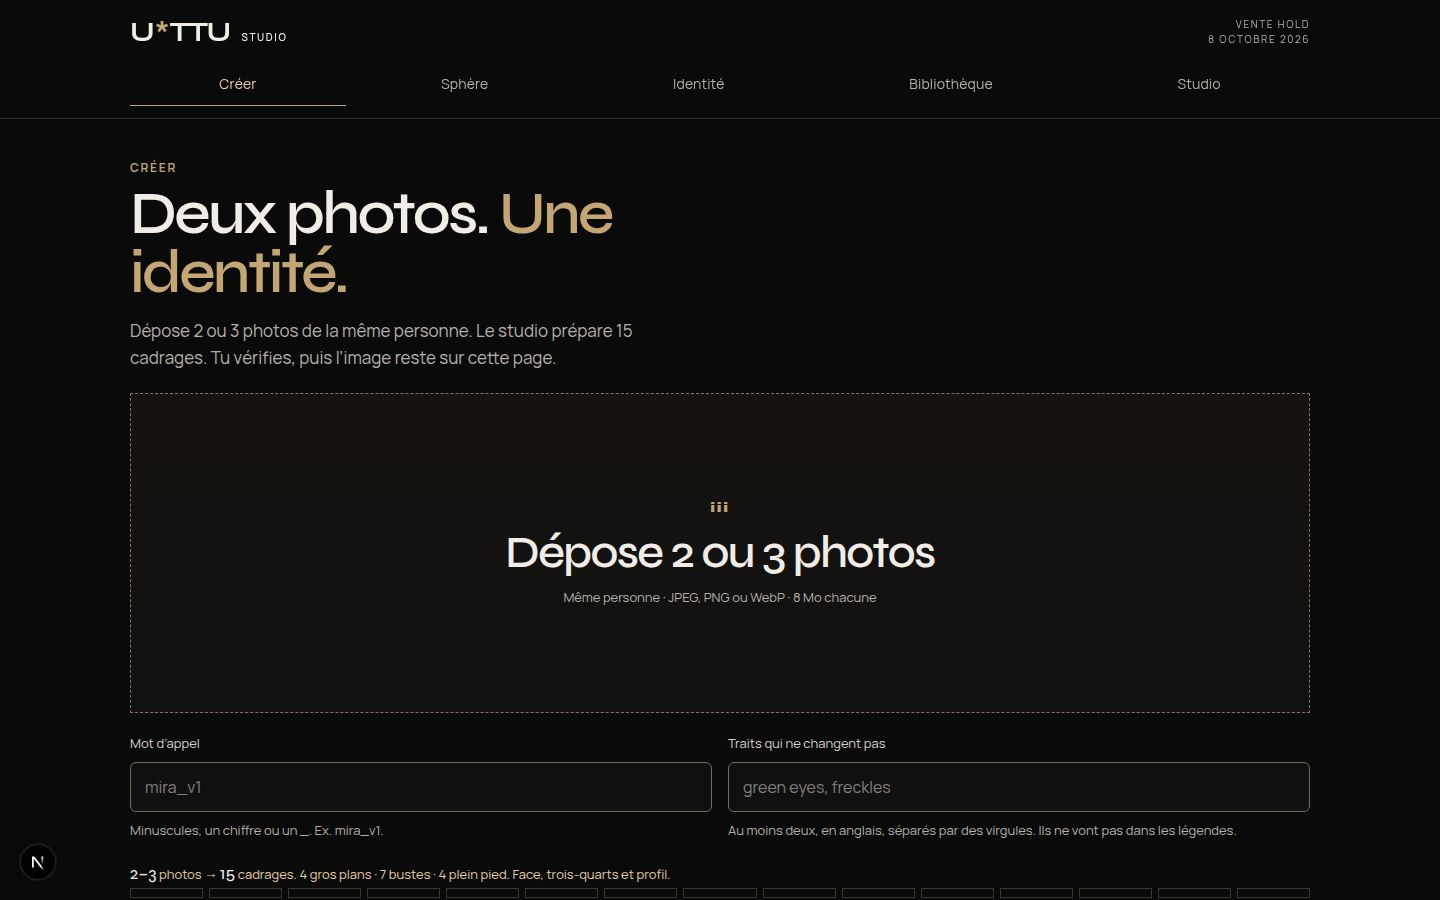
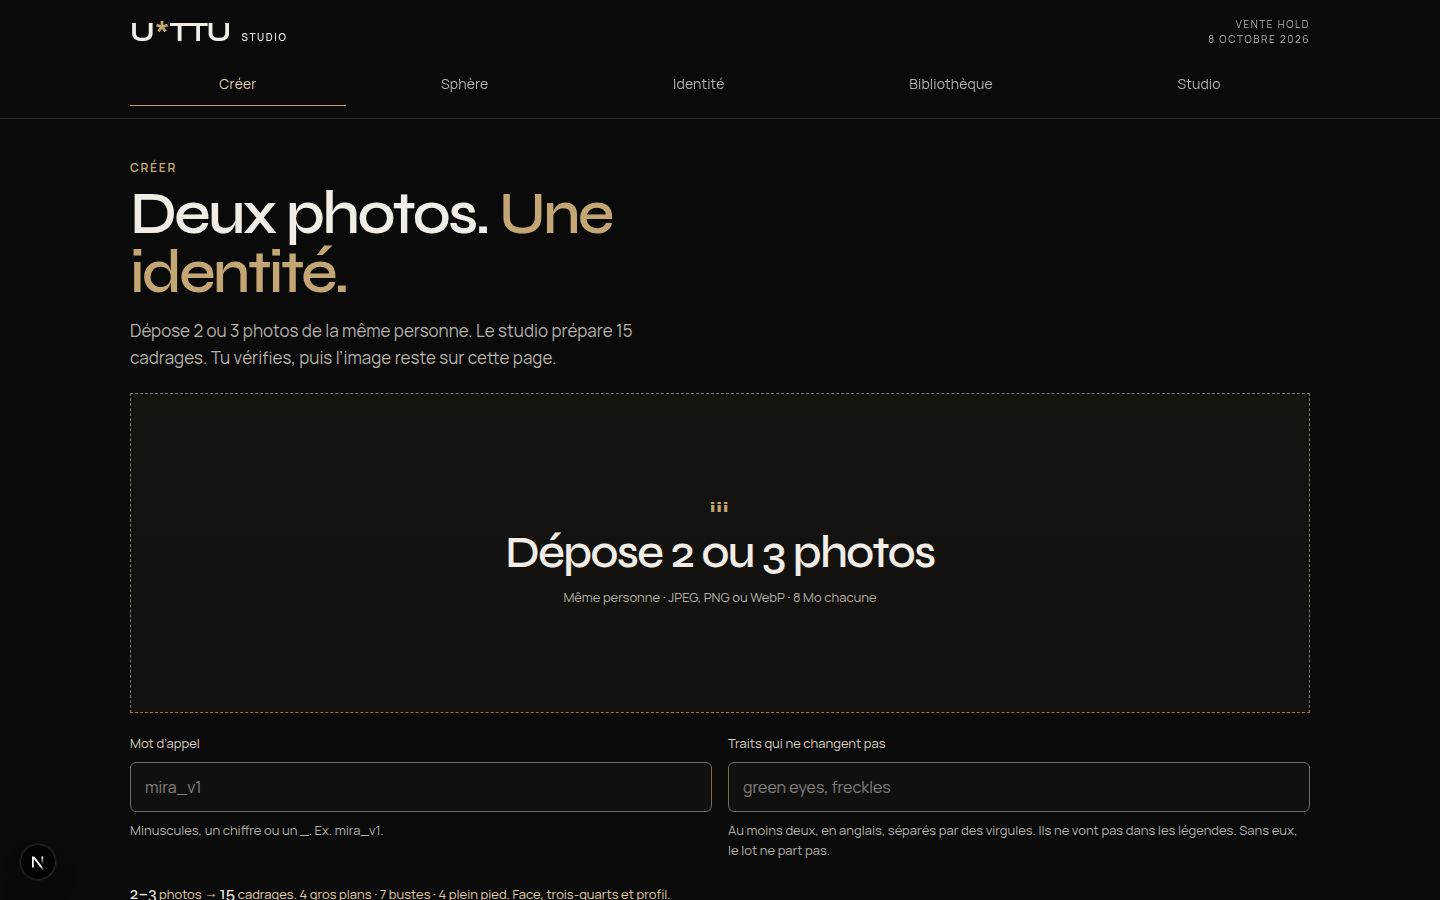
fix(create): refuse a lot that would fail the invariant gate
The prepare launch stays off until the trigger, two or three photos and two constant traits are set. Without a fal proxy, importing an existing set of 15 images is the primary action.

Changed region(s): [[0.0938, 0.9644, 0.9062, 1.0], [0.5, 0.9333, 0.5625, 0.9644], [0.875, 0.9022, 0.9062, 0.9333]]

diff --git a/src/components/studio/create-panel.tsx b/src/components/studio/create-panel.tsx
@@ -5,6 +5,7 @@ import { DATASET_SIZE } from "@/lib/comfy-stack";
 import { bootstrapCaption, bootstrapPlan } from "@/lib/fal-bootstrap";
 import { FAL_ACCESS_MIN, FAL_VARY, estimateFalVary, formatFalCost } from "@/lib/fal-stack";
 import { checkTrigger } from "@/lib/gate/captions";
+import { invariantFieldError, prepareLaunch } from "@/lib/prepare-preflight";
 import { ANGLES, FRAMINGS } from "@/lib/gate/vocabulary";
 import { Arrow } from "../glyph";
 
@@ -32,16 +33,20 @@ export interface CreatePanelProps {
 export function CreatePanel(props: CreatePanelProps) {
   const [dragging, setDragging] = useState(false);
   const triggerError = props.trigger ? checkTrigger(props.trigger) : null;
-  const ready = props.proxyOn
-    && props.refs.length >= FAL_VARY.minRefs
-    && props.refs.length <= FAL_VARY.maxRefs
-    && !triggerError
-    && !!props.trigger
-    && props.token.trim().length >= FAL_ACCESS_MIN
-    && !props.busy;
+  const invariantError = invariantFieldError(props.invariants);
+  const attempt = {
+    proxyOn: props.proxyOn,
+    refCount: props.refs.length,
+    trigger: props.trigger,
+    invariants: props.invariants,
+    token: props.token,
+    busy: props.busy,
+  };
+  const ready = prepareLaunch(attempt).launch;
+  const refsReady = props.refs.length >= FAL_VARY.minRefs && props.refs.length <= FAL_VARY.maxRefs;
+  const shortToken = props.proxyOn && !props.busy && !triggerError && !!props.trigger && refsReady && !invariantError && props.invariants.trim().length > 0 && props.token.trim().length < FAL_ACCESS_MIN;
   const angleLabel = (id: string) => ANGLES.find(item => item.id === id)?.label ?? id;
   const framingLabel = (id: string) => FRAMINGS.find(item => item.id === id)?.label ?? id;
-  const shortToken = props.proxyOn && !!props.trigger && !triggerError && props.refs.length >= FAL_VARY.minRefs && props.token.trim().length < FAL_ACCESS_MIN;
 
   function take(list: File[]) {
     props.onRefs(list);
@@ -76,8 +81,8 @@ export function CreatePanel(props: CreatePanelProps) {
       </div>
       <div className="create-field">
         <label htmlFor="create-invariants">Traits qui ne changent pas</label>
-        <input id="create-invariants" value={props.invariants} onChange={event => props.onInvariants(event.target.value)} placeholder="green eyes, freckles" spellCheck={false} disabled={props.busy} />
-        <p>Au moins deux, en anglais, séparés par des virgules. Ils ne vont pas dans les légendes.</p>
+        <input id="create-invariants" value={props.invariants} onChange={event => props.onInvariants(event.target.value)} placeholder="green eyes, freckles" spellCheck={false} disabled={props.busy} aria-invalid={!!invariantError} aria-describedby="create-invariants-help" />
+        <p id="create-invariants-help" className={invariantError ? "is-error" : ""}>{invariantError ?? "Au moins deux, en anglais, séparés par des virgules. Ils ne vont pas dans les légendes. Sans eux, le lot ne part pas."}</p>
       </div>
       {props.proxyOn && <div className="create-field">
         <label htmlFor="create-token">Code d’accès du studio</label>
@@ -95,16 +100,19 @@ export function CreatePanel(props: CreatePanelProps) {
       </ol>
     </div>
 
-    <div className="create-actions">
-      <button type="button" className="button button-primary" disabled={!ready} aria-busy={props.busy} onClick={props.onBootstrap}>
-        {props.busy ? "Préparation du lot…" : `Préparer les ${DATASET_SIZE} images · ≈ ${formatFalCost(COST)}`} <Arrow />
-      </button>
-      <button type="button" className="button button-outline" disabled={props.busy} onClick={props.onManual}>Importer mes {DATASET_SIZE} images</button>
-    </div>
-    <p className="create-path">Le lot automatique attend le proxy fal. Tes propres {DATASET_SIZE} images s’importent ici, sans réseau, puis passent le gate.</p>
-    {!props.proxyOn && <aside className="offline-fal" role="status">
-      <p><strong>Hors ligne.</strong> Proxy fal absent. Le bouton de lot reste éteint. Aucune photo ne part.</p>
+    {!props.proxyOn && <aside id="prepare-offline" className="offline-fal" role="status">
+      <p><strong>Lot automatique indisponible.</strong> Proxy fal absent. « Préparer les {DATASET_SIZE} images » ne lance rien, et rien n’est facturé.</p>
+      <p>Ici, le chemin est « J’ai déjà {DATASET_SIZE} images ». Le gate reste dans cette page.</p>
     </aside>}
+    <div className={`create-actions${props.proxyOn ? "" : " is-offline"}`}>
+      {!props.proxyOn && <button type="button" className="button button-primary" disabled={props.busy} onClick={props.onManual}>J’ai déjà {DATASET_SIZE} images <Arrow /></button>}
+      <button type="button" className={`button ${props.proxyOn ? "button-primary" : "button-outline"}`} disabled={!ready} aria-busy={props.busy} aria-describedby={props.proxyOn ? undefined : "prepare-offline"} onClick={() => { if (prepareLaunch(attempt).launch) props.onBootstrap(); }}>
+        {props.busy ? "Préparation du lot…" : props.proxyOn ? `Préparer les ${DATASET_SIZE} images · ≈ ${formatFalCost(COST)}` : `Préparer les ${DATASET_SIZE} images`} <Arrow />
+      </button>
+      {props.proxyOn && <button type="button" className="button button-outline" disabled={props.busy} onClick={props.onManual}>J’ai déjà {DATASET_SIZE} images</button>}
+    </div>
+    {props.proxyOn && <p className="create-path">Deux traits constants, un mot d’appel, deux ou trois photos. Tu peux aussi importer tes {DATASET_SIZE} images, sans lancer le lot.</p>}
+    {props.proxyOn && !props.busy && !triggerError && !!props.trigger && refsReady && !props.invariants.trim() && <p className="create-status">Deux traits constants avant l’envoi. Le bouton reste éteint : le gate les exige, et le lot ne part pas sans eux.</p>}
     {props.proxyOn && props.refs.length > 0 && props.refs.length < FAL_VARY.minRefs && <p className="create-status">Encore une photo : il en faut {FAL_VARY.minRefs} ou {FAL_VARY.maxRefs}.</p>}
     {shortToken && !props.busy && <p className="create-status">Le code d’accès du studio débloque le lot. Rien n’est envoyé avant le clic.</p>}
     {props.status && <p className="create-status" role="status">{props.status}</p>}

diff --git a/tests/prepare-preflight.test.ts b/tests/prepare-preflight.test.ts
@@ -1,0 +1,59 @@
+import assert from "node:assert/strict";
+import { describe, it } from "node:test";
+import { FAL_ACCESS_MIN } from "../src/lib/fal-stack.ts";
+import { invariantFieldError, prepareLaunch, runIfPrepareAllowed, type PrepareAttempt } from "../src/lib/prepare-preflight.ts";
+
+const ready: PrepareAttempt = {
+  proxyOn: true,
+  refCount: 2,
+  trigger: "mira_v1",
+  invariants: "green eyes, freckles",
+  token: "x".repeat(FAL_ACCESS_MIN),
+  busy: false,
+};
+
+describe("prepare preflight", () => {
+  it("launches only with a trigger, 2 or 3 photos and at least 2 invariants", () => {
+    assert.deepEqual(prepareLaunch(ready), { launch: true });
+    assert.deepEqual(prepareLaunch({ ...ready, refCount: 3 }), { launch: true });
+    assert.deepEqual(prepareLaunch({ ...ready, invariants: "green eyes, freckles, scar" }), { launch: true });
+  });
+
+  it("does not launch when invariants are missing, duplicated or only one", async () => {
+    for (const invariants of ["", "green eyes", "green eyes, green eyes", "a, b", "eyes"]) {
+      const attempt = { ...ready, invariants };
+      assert.equal(prepareLaunch(attempt).launch, false, invariants || "(vide)");
+      let called = false;
+      const ran = await runIfPrepareAllowed(attempt, async () => { called = true; });
+      assert.equal(ran, null);
+      assert.equal(called, false, invariants || "(vide)");
+    }
+  });
+
+  it("does not launch when the trigger, the photos, the proxy or the code are incomplete", async () => {
+    const attempts: PrepareAttempt[] = [
+      { ...ready, trigger: "" },
+      { ...ready, trigger: "mira" },
+      { ...ready, refCount: 0 },
+      { ...ready, refCount: 1 },
+      { ...ready, refCount: 4 },
+      { ...ready, proxyOn: false },
+      { ...ready, token: "court" },
+      { ...ready, busy: true },
+    ];
+    for (const attempt of attempts) {
+      assert.equal(prepareLaunch(attempt).launch, false);
+      let called = false;
+      assert.equal(await runIfPrepareAllowed(attempt, async () => { called = true; }), null);
+      assert.equal(called, false);
+    }
+  });
+
+  it("names a short invariant list on the field, and stays quiet while it is empty", () => {
+    assert.equal(invariantFieldError(""), null);
+    assert.equal(invariantFieldError("   "), null);
+    assert.match(invariantFieldError("green eyes") ?? "", /Encore un trait/);
+    assert.match(invariantFieldError("a, b") ?? "", /3 lettres/);
+    assert.equal(invariantFieldError("green eyes, freckles"), null);
+  });
+});

diff --git a/src/lib/prepare-preflight.ts b/src/lib/prepare-preflight.ts
@@ -1,0 +1,48 @@
+import { FAL_ACCESS_MIN, FAL_VARY } from "./fal-stack.ts";
+import { checkTrigger, parseInvariants } from "./gate/captions.ts";
+import { GATE } from "./gate/rules.ts";
+
+// Client gate before any fal bootstrap. G02 asks for two invariants; without
+// them a paid lot comes back refused. Incomplete attempts must not launch.
+
+export interface PrepareAttempt {
+  proxyOn: boolean;
+  refCount: number;
+  trigger: string;
+  invariants: string;
+  token: string;
+  busy: boolean;
+}
+
+export type PrepareDecision = { launch: true } | { launch: false; reason: string };
+
+export function invariantFieldError(raw: string): string | null {
+  if (!raw.trim()) return null;
+  const count = parseInvariants(raw).length;
+  if (count >= GATE.minInvariants) return null;
+  if (count === 0) return "Chaque trait fait au moins 3 lettres. Il en faut 2, séparés par une virgule.";
+  return "Encore un trait. Le gate en demande 2 avant tout envoi.";
+}
+
+export function prepareLaunch(attempt: PrepareAttempt): PrepareDecision {
+  if (attempt.busy) return { launch: false, reason: "Une préparation est déjà en cours." };
+  if (!attempt.proxyOn) return { launch: false, reason: "Proxy fal absent. Aucun lot automatique n’est lancé." };
+  const triggerError = checkTrigger(attempt.trigger);
+  if (triggerError) return { launch: false, reason: triggerError };
+  if (attempt.refCount < FAL_VARY.minRefs || attempt.refCount > FAL_VARY.maxRefs) {
+    return { launch: false, reason: `Il faut ${FAL_VARY.minRefs} ou ${FAL_VARY.maxRefs} photos.` };
+  }
+  if (parseInvariants(attempt.invariants).length < GATE.minInvariants) {
+    return { launch: false, reason: `Il faut ${GATE.minInvariants} traits constants avant l’envoi. Le lot ne part pas.` };
+  }
+  if (attempt.token.trim().length < FAL_ACCESS_MIN) {
+    return { launch: false, reason: "Le code d’accès du studio manque. Rien n’est envoyé." };
+  }
+  return { launch: true };
+}
+
+// The fal call is `start`. It is not invoked when the attempt is incomplete.
+export function runIfPrepareAllowed<T>(attempt: PrepareAttempt, start: () => T): T | null {
+  if (!prepareLaunch(attempt).launch) return null;
+  return start();
+}

diff --git a/src/components/studio/create-view.tsx b/src/components/studio/create-view.tsx
@@ -106,7 +106,7 @@ export function CreateView() {
         <details><summary>Qu’est-ce qui est payant ?</summary><p>La page ne facture rien. Préparer le lot, entraîner et générer consomment la clé fal du studio, aux tarifs affichés avant chaque clic. Le repli Comfy, lui, consomme les crédits de ton compte Comfy. L’offre de guidage U*TTU n’est pas en vente (HOLD).</p></details>
         <details><summary>Où vont mes images ?</summary><p>Rien ne part tant que tu ne cliques pas. Au clic sur « Préparer les 15 images » ou « Entraîner chez fal », les photos passent par le proxy du studio, jamais avec une clé dans la page. Le ZIP du gate, lui, reste dans ton navigateur.</p></details>
         <details><summary>Est-ce que je récupère un fichier LoRA ?</summary><p>Oui, sur le rail fal : un fichier .safetensors à télécharger. Le repli Comfy entraîne et produit une image dans le même lancement, sans fichier à emporter.</p></details>
-        <details><summary>Et si je connais déjà les LoRA ?</summary><p>Dépose tes photos, ou ouvre « Importer mes 15 images ». Le tuto est dans « Comment ça marche ». Comfy est dans « Expert / repli ». Identité reprend le gate, les légendes et le ZIP.</p></details>
+        <details><summary>Et si je connais déjà les LoRA ?</summary><p>Ouvre « J’ai déjà 15 images ». Sans proxy fal, c’est le bouton principal. Le tuto est dans « Comment ça marche ». Comfy est dans « Expert / repli ». Identité reprend le gate, les légendes et le ZIP.</p></details>
       </div>
     </section>
   </section>;

diff --git a/src/components/studio/session.tsx b/src/components/studio/session.tsx
@@ -8,6 +8,7 @@ import { trackEvent } from "@/lib/analytics";
 import { captionsBlock } from "@/lib/gate/report";
 import { GATE, canKeep, evaluateGate, type ConfirmationId, type DatasetImage, type GateResult } from "@/lib/gate/rules";
 import type { Angle, Framing } from "@/lib/gate/vocabulary";
+import { prepareLaunch, runIfPrepareAllowed } from "@/lib/prepare-preflight";
 import { falProxyUrl } from "@/lib/site";
 import type { ExportState } from "../guide/train-step";
 
@@ -242,6 +243,23 @@ export function StudioSessionProvider({ children }: { children: ReactNode }) {
   }
 
   async function bootstrap() {
+    const attempt = {
+      proxyOn: !!falProxyUrl,
+      refCount: refFiles.length,
+      trigger: trigger.trim(),
+      invariants,
+      token,
+      busy: boot.phase !== "idle" || bootLock.current,
+    };
+    const ran = runIfPrepareAllowed(attempt, () => launchBootstrap());
+    if (ran) return ran;
+    const decision = prepareLaunch(attempt);
+    if (!decision.launch && boot.phase === "idle" && !bootLock.current) {
+      setBoot({ phase: "idle", done: 0, message: decision.reason });
+    }
+  }
+
+  async function launchBootstrap() {
     if (!falProxyUrl || bootLock.current) return;
     bootLock.current = true;
     const generation = ++bootGeneration.current;

diff --git a/README.md b/README.md
@@ -23,7 +23,7 @@ L’offre A (« Look-Lock » : forfait de direction artistique et ZIP-juge) a é
 La page s’ouvre sur **Créer**, dans un shell à cinq modes : Créer, Sphère, Identité, Bibliothèque, Studio. Le tutoriel est un tiroir (« Comment ça marche »), pas un mur de quatre écrans. Sphère, la bibliothèque et le tableau sont des panneaux de la page. Ils ne lancent ni vidéo, ni compte, ni paiement.
 
 1. **Déposer.** 2 ou 3 photos de la même personne, un mot d’appel, deux traits constants. « J’ai déjà 15 images » reste possible.
-2. **Préparer le lot.** Au clic, le proxy demande 15 variations à `fal-ai/flux-pro/kontext/multi` (cadrages et légendes du gate). Le coût estimé est sur le bouton. Sans URL de proxy, le bouton reste inactif.
+2. **Préparer le lot.** Au clic, le proxy demande 15 variations à `fal-ai/flux-pro/kontext/multi` (cadrages et légendes du gate). Le coût estimé est sur le bouton. Il reste éteint sans trigger valide, sans 2 ou 3 photos, ou sans au moins 2 traits constants : le lot ne part pas. Sans URL de proxy, ce bouton reste inactif et « J’ai déjà 15 images » devient le bouton principal.
 3. **Vérifier.** Le gate est inchangé : 15 JPEG, angles, légendes, cinq confirmations ([règles](docs/DATASET-GATE.md)). « Garder les images proposées » ne coche pas les confirmations.
 4. **Entraîner et générer, ici.** Après PASS, `flux-lora-fast-training` puis la grille `flux-lora`. La LoRA se télécharge sur la page.
 5. **Expert / repli.** Comfy est replié. Le cadre ne se charge qu’après un second clic.

diff --git a/docs/DECISIONS.md b/docs/DECISIONS.md
@@ -8,6 +8,7 @@ Registre de vérité U*TTU : chaque ligne est un **fait**, une **hypothèse**, u
 - **Décision :** tant que `NEXT_PUBLIC_FAL_PROXY_URL` est vide, les boutons qui lanceraient fal restent éteints. Les états hors ligne le disent. Aucun appel réseau n’est simulé. Le Worker n’est pas déployé. 0 $.
 - **Fait :** Créer garde le parcours 2–3 photos → plan de 15, l’import des 15 images, le gate et le repli Comfy replié. Le tiroir « Comment ça marche » reste secondaire. Sphère (Avant / Après / Entre), la bibliothèque et le tableau sont des panneaux réels : aperçus « bientôt », sans vidéo et sans compte. Identité reprend le gate, les légendes, le ZIP et le rail fal.
 - **Décision inchangée :** vente HOLD. Échéance au 8 octobre 2026, visible sans devenir le héros. La Phase 0 ci-dessous avait exclu Sphère et dashboard : cette décision ajoute leurs panneaux, pas leur backend.
+- **Fait :** « Préparer les 15 images » ne part que si le trigger est valide, qu’il y a 2 ou 3 photos, et au moins 2 invariants (G02). Le contrôle est dans le client, avant l’appel. Un lot incomplet ne lance rien. Sans proxy, « J’ai déjà 15 images » est le bouton principal. Pas de déploiement Worker, pas de plafond, pas d’appel fal payant.
 
 ## Phase 0 — Créer maintenant — 28 septembre 2026
 
